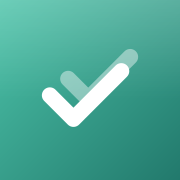
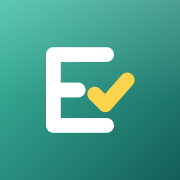
Project name changed

Changed region(s): [[0.2222, 0.25, 0.7778, 0.75], [0.8333, 0.8333, 1.0, 1.0]]

diff --git a/app/(dashboard)/layout.tsx b/app/(dashboard)/layout.tsx
@@ -14,7 +14,7 @@ export default function DashboardLayout({ children }: LayoutProps<"/">) {
     <div className="flex min-h-screen flex-1 bg-[#f4f6f8]">
       <SidebarShell
         mobileTitle={
-          <Suspense fallback={<MobileTitleText label="PANO" title="CoTask" />}>
+          <Suspense fallback={<MobileTitleText label="PANO" title="Em3Task" />}>
             <MobileTitle />
           </Suspense>
         }
@@ -23,7 +23,7 @@ export default function DashboardLayout({ children }: LayoutProps<"/">) {
           <span className="flex min-w-0 items-center gap-2">
             <Logo size={26} className="rounded-[7px]" />
             <span className="truncate text-[15px] font-semibold tracking-tight text-white">
-              CoTask
+              Em3Task
             </span>
           </span>
           <Suspense fallback={<div className="size-8 rounded-full bg-white/[0.08]" />}>
@@ -43,7 +43,7 @@ export default function DashboardLayout({ children }: LayoutProps<"/">) {
         {/* flex: sayfalar (ör. proje panosu) kalan yüksekliği doldurabilir */}
         <div className="flex flex-1 flex-col">{children}</div>
         <footer className="mt-8 hidden text-xs text-slate-400 lg:block">
-          © 2026 CoTask · Ekip içi iş takip
+          © 2026 Em3Task · Ekip içi iş takip
         </footer>
       </main>
 
@@ -78,7 +78,7 @@ async function SidebarData() {
 async function MobileTitle() {
   const projects = await getProjects();
   return (
-    <Suspense fallback={<MobileTitleText label="PANO" title="CoTask" />}>
+    <Suspense fallback={<MobileTitleText label="PANO" title="Em3Task" />}>
       <MobilePageTitle projects={projects.map((p) => ({ id: p.id, name: p.name }))} />
     </Suspense>
   );

diff --git a/public/sw.js b/public/sw.js
@@ -1,9 +1,9 @@
-// CoTask service worker
+// Em3Task service worker
 // Görevi sadece internet yokken açılan sayfalar için "çevrimdışı" ekranı göstermek.
 // Ekip verisi içeren sayfalar (görevler, sohbet, dosyalar) bilerek ÖNBELLEĞE ALINMAZ:
 // giriş gerektiren içerik cihazda saklanmasın ve her zaman güncel gelsin.
 
-const CACHE = "cotask-offline-v1";
+const CACHE = "em3task-offline-v2"; // ad değişti: yeni logo ikonları önbelleğe yeniden alınsın
 const OFFLINE_URL = "/offline.html";
 const PRECACHE = [OFFLINE_URL, "/icons/icon-192.png", "/icons/logo.svg"];
 
@@ -50,7 +50,7 @@ self.addEventListener("push", (event) => {
     data = { body: event.data ? event.data.text() : "" };
   }
 
-  const title = data.title || "CoTask";
+  const title = data.title || "Em3Task";
   event.waitUntil(
     self.registration.showNotification(title, {
       body: data.body || "",
@@ -64,7 +64,7 @@ self.addEventListener("push", (event) => {
   );
 });
 
-// Bildirime tıklanınca: açık bir CoTask sekmesi varsa onu o sayfaya götür, yoksa yeni pencere aç
+// Bildirime tıklanınca: açık bir Em3Task sekmesi varsa onu o sayfaya götür, yoksa yeni pencere aç
 self.addEventListener("notificationclick", (event) => {
   event.notification.close();
   const target = new URL(event.notification.data?.url || "/", self.location.origin).href;

diff --git a/app/login/page.tsx b/app/login/page.tsx
@@ -3,7 +3,7 @@ import { LoginForm } from "./login-form";
 import { Logo } from "@/components/ui/logo";
 
 export const metadata: Metadata = {
-  title: "Giriş Yap · CoTask",
+  title: "Giriş Yap · Em3Task",
 };
 
 export default function LoginPage() {
@@ -18,7 +18,7 @@ export default function LoginPage() {
       <div className="relative w-full max-w-[360px]">
         <div className="mb-6 flex items-center justify-center gap-2">
           <Logo size={28} className="rounded-[7px]" />
-          <span className="text-base font-semibold tracking-tight text-slate-900">CoTask</span>
+          <span className="text-base font-semibold tracking-tight text-slate-900">Em3Task</span>
         </div>
 
         <div className="rounded-xl border border-slate-200 bg-white p-6 shadow-[0_1px_2px_rgba(15,23,42,0.04),0_8px_24px_-12px_rgba(15,23,42,0.12)]">

diff --git a/components/profile/notification-settings.tsx b/components/profile/notification-settings.tsx
@@ -5,9 +5,9 @@ import { usePushNotifications } from "@/components/pwa/use-push-notifications";
 
 const NOTES: Record<string, string> = {
   denied:
-    "Bildirim izni bu cihazda engellenmiş. iPhone'da Ayarlar → Bildirimler → CoTask; bilgisayarda adres çubuğundaki kilit simgesinden izni açıp sayfayı yenileyin.",
+    "Bildirim izni bu cihazda engellenmiş. iPhone'da Ayarlar → Bildirimler → Em3Task; bilgisayarda adres çubuğundaki kilit simgesinden izni açıp sayfayı yenileyin.",
   "ios-install":
-    "iPhone/iPad'de bildirim için CoTask'ı Safari'de Paylaş → Ana Ekrana Ekle ile kurun ve ana ekrandan açın.",
+    "iPhone/iPad'de bildirim için Em3Task'ı Safari'de Paylaş → Ana Ekrana Ekle ile kurun ve ana ekrandan açın.",
   unsupported: "Bu tarayıcı anlık bildirimleri desteklemiyor.",
 };
 

diff --git a/public/offline.html b/public/offline.html
@@ -4,7 +4,7 @@
     <meta charset="utf-8" />
     <meta name="viewport" content="width=device-width, initial-scale=1, viewport-fit=cover" />
     <meta name="theme-color" content="#141414" />
-    <title>Çevrimdışı · CoTask</title>
+    <title>Çevrimdışı · Em3Task</title>
     <style>
       :root { color-scheme: dark; }
       * { box-sizing: border-box; }
@@ -40,7 +40,7 @@
     <main>
       <img src="/icons/logo.svg" alt="" />
       <h1>İnternet bağlantısı yok</h1>
-      <p>CoTask'a ulaşılamıyor. Bağlantınız geri geldiğinde sayfa yeniden açılacak.</p>
+      <p>Em3Task'a ulaşılamıyor. Bağlantınız geri geldiğinde sayfa yeniden açılacak.</p>
       <button type="button" onclick="location.reload()">Tekrar dene</button>
     </main>
     <script>

diff --git a/components/ui/logo.tsx b/components/ui/logo.tsx
@@ -1,9 +1,9 @@
-// CoTask logosu (public/icons/logo.svg; ikonlar da aynı dosyadan üretilir)
+// Em3Task logosu (public/icons/logo.svg; ikonlar da aynı dosyadan üretilir)
 export function Logo({ size = 32, className = "" }: { size?: number; className?: string }) {
   return (
     // eslint-disable-next-line @next/next/no-img-element -- küçük, statik SVG; optimizasyona gerek yok
     <img
-      src="/icons/logo.svg"
+      src="/icons/logo.svg?v=2"
       alt=""
       width={size}
       height={size}

diff --git a/lib/push.ts b/lib/push.ts
@@ -19,7 +19,7 @@ function configure(): boolean {
   if (configured !== null) return configured;
   const publicKey = process.env.NEXT_PUBLIC_VAPID_PUBLIC_KEY;
   const privateKey = process.env.VAPID_PRIVATE_KEY;
-  const subject = process.env.VAPID_SUBJECT || "mailto:admin@cotask.app";
+  const subject = process.env.VAPID_SUBJECT || "mailto:admin@em3task.app";
   configured = Boolean(publicKey && privateKey);
   if (configured) webpush.setVapidDetails(subject, publicKey!, privateKey!);
   return configured;

diff --git a/app/layout.tsx b/app/layout.tsx
@@ -14,13 +14,13 @@ const geistMono = Geist_Mono({
 });
 
 export const metadata: Metadata = {
-  title: "CoTask",
+  title: "Em3Task",
   description: "Ekip içi görev takip platformu",
-  applicationName: "CoTask",
+  applicationName: "Em3Task",
   // iPhone: ana ekrana eklenince tam ekran uygulama gibi açılır
   appleWebApp: {
     capable: true,
-    title: "CoTask",
+    title: "Em3Task",
     statusBarStyle: "black-translucent",
   },
   formatDetection: { telephone: false },

diff --git a/app/(dashboard)/gorevler/[id]/page.tsx b/app/(dashboard)/gorevler/[id]/page.tsx
@@ -25,7 +25,7 @@ import { TaskComments } from "@/components/tasks/task-comments";
 import { TaskAttachments, type TaskAttachment } from "@/components/tasks/task-attachments";
 import { TaskLinks } from "@/components/tasks/task-links";
 
-export const metadata: Metadata = { title: "Görev detayı · CoTask" };
+export const metadata: Metadata = { title: "Görev detayı · Em3Task" };
 
 // İmzalı dosya linklerinin geçerlilik süresi
 const SIGNED_URL_TTL_SECONDS = 60 * 60;

diff --git a/actions/push-notifications.ts b/actions/push-notifications.ts
@@ -56,7 +56,7 @@ export async function sendTestPush(): Promise<PushResult> {
   const userId = await getUserId();
   if (!isPushConfigured()) return { error: "Bildirimler sunucuda yapılandırılmamış." };
   notifyUsers([userId], {
-    title: "CoTask bildirimleri açık",
+    title: "Em3Task bildirimleri açık",
     body: "Görev atandığında, yorum veya revize geldiğinde bu cihaza haber vereceğiz.",
     url: "/gorevlerim",
     tag: "test",

diff --git a/app/(dashboard)/atadigim-gorevler/page.tsx b/app/(dashboard)/atadigim-gorevler/page.tsx
@@ -9,7 +9,7 @@ import { OptimisticTasksProvider } from "@/components/tasks/optimistic-tasks";
 import { PageHeader } from "../_components/page-header";
 import { ListSkeleton } from "../_components/list-parts";
 
-export const metadata: Metadata = { title: "Atadığım Görevler · CoTask" };
+export const metadata: Metadata = { title: "Atadığım Görevler · Em3Task" };
 
 export default function AssignedByMePage() {
   return (

diff --git a/app/(dashboard)/gorevlerim/page.tsx b/app/(dashboard)/gorevlerim/page.tsx
@@ -8,7 +8,7 @@ import { OptimisticTasksProvider } from "@/components/tasks/optimistic-tasks";
 import { PageHeader } from "../_components/page-header";
 import { ListSkeleton } from "../_components/list-parts";
 
-export const metadata: Metadata = { title: "Görevlerim · CoTask" };
+export const metadata: Metadata = { title: "Görevlerim · Em3Task" };
 
 export default function MyTasksPage() {
   return (
